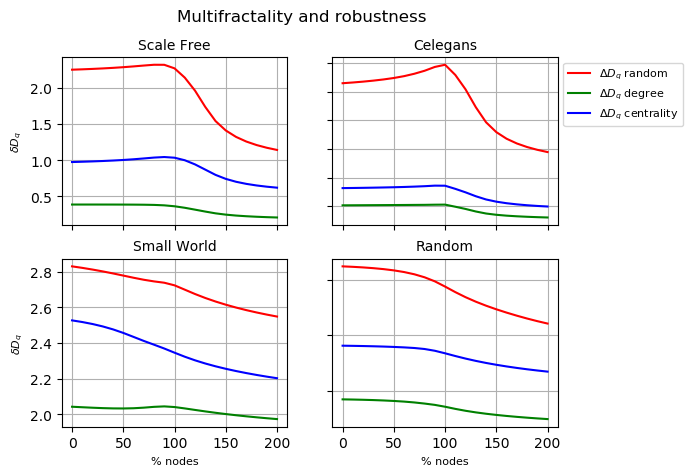
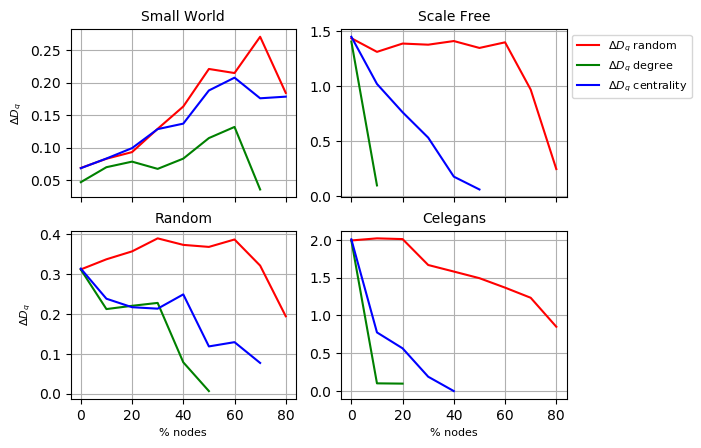
Article graphics

Changed region(s): [[0.0, 0.0, 1.0, 1.0], [0.6373, 0.25, 0.6676, 0.2812]]

diff --git a/implementacion/lamfria/Results/Graphics/article/newArticle2020/graphicsSeparated.py b/implementacion/lamfria/Results/Graphics/article/newArticle2020/graphicsSeparated.py
@@ -1,0 +1,137 @@
+#!/usr/bin/python
+# -*- coding: utf-8 -*- 
+import os
+import numpy as np
+import matplotlib.pyplot as plt
+import time
+import math
+from matplotlib.font_manager import FontProperties
+
+Robust = {}
+for filename in os.listdir('.'):
+	if filename.startswith('Robust') and filename.endswith('.npy'):
+		Robust[filename] = np.load(filename)
+		
+
+RIndex = {}
+for filename in os.listdir('.'):
+	if filename.startswith('Rindex') and filename.endswith('.npy'):
+		RIndex[filename] = np.load(filename)
+		
+minq = -10
+maxq = 11
+IndexZero = 9
+symbols = ['r-p','b-s','g-^','y-o','m->','c-<','g--','k-.','c--']
+nan=float('nan')
+percentNodes=[0, 10, 20, 30, 40, 50, 60, 70, 80]
+font = {'weight': 'normal', 'size': 8}
+
+#Generar gráficas
+
+
+#my_suptitle= fig.suptitle('R index MFA', fontdict=font)
+
+
+
+for i in RIndex:
+	
+	plt.figure()
+		
+	fontP = FontProperties()
+	fontP.set_size('small')
+
+	name = ""
+	if "Small" in i:
+		name = "Small-World"
+	elif "Random" in i:
+		name = "Random"
+	elif "Scale" in i:
+		name = "Scale-Free"
+	elif "Cele" in i:
+		name = "Celegans"
+	else:
+		error("No se encuentra")
+	
+	font = {'weight': 'normal', 'size': 8}
+	
+	data = RIndex[i]
+	
+	RRandom = data[0]
+	RDegree = data[1]
+	RCentrality = data[2]
+
+	plt.plot(range(0,maxq),RRandom[IndexZero:-1],'r-' , label = u'Random')
+	plt.plot(range(0,maxq),RDegree[IndexZero:-1],'g-' , label = u'Degree')
+	plt.plot(range(0,maxq),RCentrality[IndexZero:-1],'b-' , label = u'Centrality')		
+
+	
+	#plt.grid(True)	
+	plt.xlabel('q', fontdict=font)
+	plt.ylabel('R-index', fontdict=font)
+	plt.xlim(right=10)
+	plt.xlim(left=0)
+	#lgd = plt.legend(loc='upper left', prop={'size':8}, bbox_to_anchor=(1,1))
+	lgd = plt.legend(loc='best',prop={'size':8})
+
+	#fig.savefig('composicionRIndex.png', bbox_extra_artists=(lgd,my_suptitle),bbox_inches='tight')
+	plt.savefig(name+'composicionRIndex.png', bbox_extra_artists=(lgd,),bbox_inches='tight')
+
+
+
+##Segunda grafica
+
+fig, axs = plt.subplots(2,2, sharex=True)
+county = 0
+countx = 0
+    
+fontP = FontProperties()
+fontP.set_size('small')
+
+#my_suptitle=fig.suptitle(u'Differential fractal', fontdict=font)
+
+
+
+for i in Robust:
+	
+	plt.figure()
+		
+	fontP = FontProperties()
+	fontP.set_size('small')
+
+	name = ""
+	if "Small" in i:
+		name = "Small-World"
+	elif "Random" in i:
+		name = "Random"
+	elif "Scale" in i:
+		name = "Scale-Free"
+	elif "Cele" in i:
+		name = "Celegans"
+	else:
+		error("No se encuentra")
+	
+	font = {'weight': 'normal', 'size': 8}
+	
+	data = Robust[i]
+	
+	deltaA = data[0]
+	deltaB = data[1]
+	deltaC = data[2]
+	
+	plt.xlim(right=80)
+	plt.xlim(left=0)
+
+	plt.plot(percentNodes,deltaA,'r-' , label = r'Random')
+	plt.plot(percentNodes,deltaB,'g-' , label = r'Degree')
+	plt.plot(percentNodes,deltaC,'b-' , label = r'Centrality')
+	
+	#plt.grid(True)	
+	plt.xlabel('% removed nodes', fontdict=font)
+	plt.ylabel(r'$\Delta D_q$', fontdict=font)
+
+	#lgd = plt.legend(loc='upper left', prop={'size':8}, bbox_to_anchor=(1,1))
+	lgd = plt.legend(loc='best',prop={'size':8})
+
+	#fig.savefig('composicionRIndex.png', bbox_extra_artists=(lgd,my_suptitle),bbox_inches='tight')
+	plt.savefig(name+'composicionDqFractal.png', bbox_extra_artists=(lgd,),bbox_inches='tight')
+

diff --git a/implementacion/lamfria/Results/Graphics/article/newArticle2020/graphics.py b/implementacion/lamfria/Results/Graphics/article/newArticle2020/graphics.py
@@ -35,7 +35,7 @@ countx = 0
 fontP = FontProperties()
 fontP.set_size('small')
 
-my_suptitle= fig.suptitle('R index MFA', fontdict=font)
+#my_suptitle= fig.suptitle('R index MFA', fontdict=font)
 
 
 
@@ -80,17 +80,17 @@ for i in RIndex:
 	
 
 
-for ax in axs.flat:
-	ax.set_xlabel('R-index', fontdict=font)
-	ax.set_ylabel('q', fontdict=font)
-    
-for ax in axs.flat:
-    ax.label_outer()
+axs[1,0].set_xlabel('q', fontdict=font)
+axs[0,0].set_ylabel('R-index', fontdict=font)
+axs[1,1].set_xlabel('q', fontdict=font)
+axs[1,0].set_ylabel('R-index', fontdict=font)
+       
 
 
 lgd = axs[0,1].legend(loc='upper left', prop={'size':8}, bbox_to_anchor=(1,1))
 
-fig.savefig('composicionRIndex.png', bbox_extra_artists=(lgd,my_suptitle),bbox_inches='tight')
+#fig.savefig('composicionRIndex.png', bbox_extra_artists=(lgd,my_suptitle),bbox_inches='tight')
+fig.savefig('composicionRIndex.png', bbox_extra_artists=(lgd,),bbox_inches='tight')
 
 
 ##Segunda grafica
@@ -102,9 +102,9 @@ countx = 0
 fontP = FontProperties()
 fontP.set_size('small')
 
-my_suptitle=fig.suptitle(u'Multifractality and robustness', fontdict=font)
+#my_suptitle=fig.suptitle(u'Differential fractal', fontdict=font)
 
-for i in RIndex:
+for i in Robust:
 	name = ""
 	if "Small" in i:
 		name = "Small World"
@@ -119,7 +119,7 @@ for i in RIndex:
 	
 	font = {'weight': 'normal', 'size': 8}
 	
-	data = RIndex[i]
+	data = Robust[i]
 	
 	deltaA = data[0]
 	deltaB = data[1]
@@ -141,15 +141,17 @@ for i in RIndex:
 		county = 1
 	elif countx == 0 and county == 1:
 		countx = 1
+
+axs[1,0].set_xlabel(r'% nodes', fontdict=font)
+axs[0,0].set_ylabel(r'$\Delta D_q$', fontdict=font)
+axs[1,1].set_xlabel(r'% nodes', fontdict=font)
+axs[1,0].set_ylabel(r'$\Delta D_q$', fontdict=font)
+       
 		
-for ax in axs.flat:
-	ax.set_xlabel(r'% nodes', fontdict=font)
-	ax.set_ylabel(r'$\delta D_q$', fontdict=font)
-    
-for ax in axs.flat:
-    ax.label_outer()
-    
+
+
 
 lgd = axs[0,1].legend(loc='upper left', prop={'size':8}, bbox_to_anchor=(1,1))
 
-fig.savefig('composicionDqFractal.png', bbox_extra_artists=(lgd,my_suptitle),bbox_inches='tight')
+#fig.savefig('composicionDqFractal.png', bbox_extra_artists=(lgd,my_suptitle),bbox_inches='tight')
+fig.savefig('composicionDqFractal.png', bbox_extra_artists=(lgd,),bbox_inches='tight')
